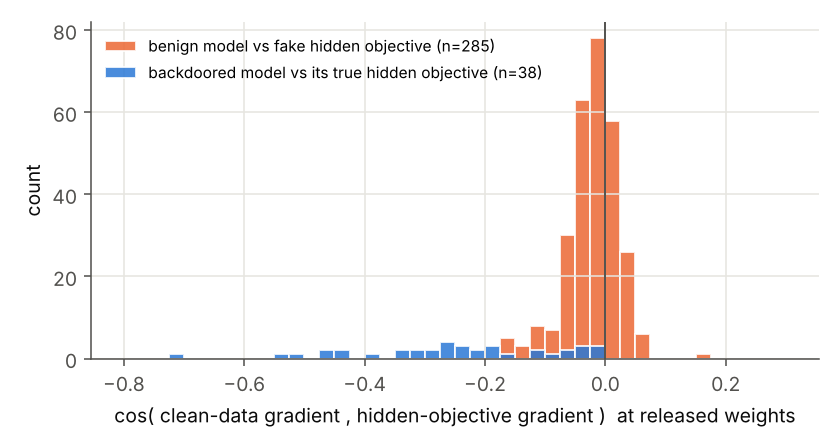
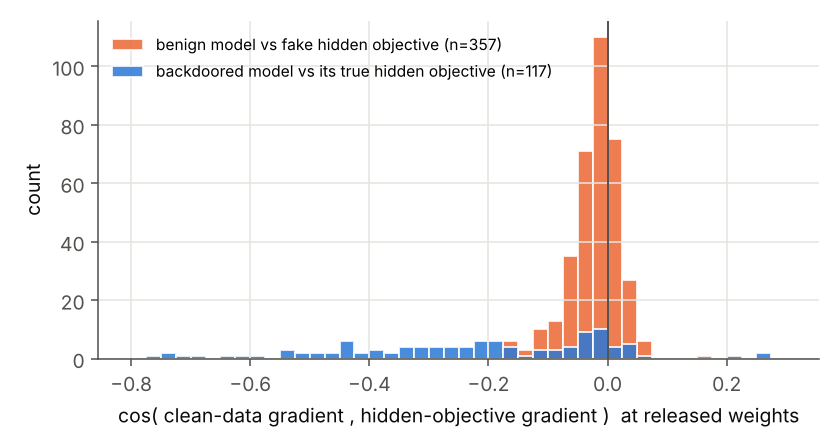
Report: duality replications, zoo3, zoo6; pooled survival figure
Claude-Session: https://claude.ai/code/session_017REhGJF2ojJU6FrggAw94v

diff --git a/lab/analysis/figures.py b/lab/analysis/figures.py
@@ -139,9 +139,39 @@ def fig_zoo2(outdir, z="runs/zoo2"):
     fig.savefig(os.path.join(outdir, "survival_zoo2.png"))
 
 
+def fig_survival_pooled(outdir, zoos=("zoo2", "zoo4", "zoo5", "zoo6")):
+    xs, cens = [], []
+    for z in zoos:
+        tug = load_scores(os.path.join("runs", z), "tug_frozen")
+        for d in map(json.loads, open(os.path.join("runs", z, "persistence_lr1e-4.jsonl"))):
+            xs.append(tug[d["id"]]["tok_min_cos"])
+            cens.append(d["censored"])
+    xs, cens = np.array(xs), np.array(cens)
+    bins = [(0, 0.1), (0.1, 0.15), (0.15, 0.2), (0.2, 0.3), (0.3, 1)]
+    labs = ["< 0.10", "0.10–0.15", "0.15–0.20", "0.20–0.30", "≥ 0.30"]
+    rates, ns, ks = [], [], []
+    for a, b in bins:
+        sel = (xs >= a) & (xs < b)
+        ns.append(int(sel.sum()))
+        ks.append(int(cens[sel].sum()))
+        rates.append(cens[sel].mean() if sel.any() else 0)
+    fig, ax = plt.subplots(figsize=(5.0, 3.1))
+    ax.bar(range(len(bins)), rates, color=BLUE, width=0.62, edgecolor="white", linewidth=2)
+    for i, (r_, k_, n_) in enumerate(zip(rates, ks, ns)):
+        ax.text(i, r_ + 0.02, f"{k_}/{n_}", ha="center", fontsize=8.5, color=INK)
+    ax.set_xticks(range(len(bins)), labs)
+    ax.set_ylim(0, 0.75)
+    ax.set_xlabel("trigger-free tug score at release (auditor-computable)")
+    ax.set_ylabel("survived clean fine-tuning")
+    ax.set_title(f"{len(xs)} backdoors, 4 sealed zoos", fontsize=10, color=INK)
+    fig.tight_layout()
+    fig.savefig(os.path.join(outdir, "survival_pooled.png"))
+
+
 if __name__ == "__main__":
     outdir = sys.argv[1]
     os.makedirs(outdir, exist_ok=True)
     fig_law(["runs/zoo1", "runs/zoo2", "runs/zoo3", "runs/zoo4"], os.path.join(outdir, "law.png"))
     fig_duality(["runs/zoo2/persistence_lr1e-4.jsonl"], os.path.join(outdir, "duality.png"))
     fig_zoo2(outdir)
+    fig_survival_pooled(outdir)

diff --git a/lab/REPORT.md b/lab/REPORT.md
@@ -19,12 +19,15 @@ labelled as such. Pending sections are marked PENDING.
    - sealed zoo4 (bias-free, LLM-style output heads): AUROC **0.785** [0.679, 0.880]; recovery 12/30 (p = 8.5e-19);
    - sealed zoo5 (poisoned vs benign *fine-tunes* of clean models; no base model used): AUROC **0.971**
      [0.934, 0.996]; recovery **43/48 = 90%** (p = 4.5e-90).
-3. **Detectability–persistence duality.** A first-order chain-rule argument gives dL_hidden/dt = −g_hᵀP g_c under
-   clean fine-tuning. Sealed zoo2 (77 effective backdoors): the release-time rate predicts ASR half-life under
-   clean fine-tuning with Spearman **−0.78** (p = 3.7e-17; pre-registered criterion ρ ≤ −0.6 met); the
-   trigger-free score alone gives −0.70 (p = 1.4e-12). It holds within trigger kinds (ρ = −0.49, p = 6.7e-6) and
-   within behaviours (−0.74 to −0.94). Strong-tug backdoors (cos < −0.3) survived clean fine-tuning **0/27**
-   times; weak-tug ones (−0.1…0) survived 44%.
+3. **Detectability–persistence duality (the main result).** A first-order chain-rule argument gives
+   dL_hidden/dt = −g_hᵀP g_c under clean fine-tuning. Pre-registered on sealed zoo2 (77 effective backdoors):
+   the release-time rate predicts ASR half-life with Spearman **−0.78** (p = 3.7e-17; criterion ρ ≤ −0.6 met).
+   It **replicates on every other sealed zoo** with the identical analysis (zoo4 −0.80, zoo5 −0.65, zoo6 −0.75;
+   pooled n = 211: **−0.81, p = 2.6e-50**; within zoo × trigger kind −0.34, p = 5e-7). Backdoors with a strong
+   tug (cos < −0.3) survived clean fine-tuning **0/85** times; near-zero or positive tug survived about half.
+   With auditor-computable information only, the trigger-free score forecasts survival with AUROC **0.84**
+   [0.79, 0.89] (Spearman −0.72, p = 2e-35): **every backdoor scoring > 0.2 was removed (0/81); all 43
+   survivors were among those the audit could not flag.**
 4. **The limit: leakage.** Exactly, g_clean = E_x Σ_{v≠y} p_v(x) ∇(logit_v − logit_y)(x): the clean gradient is a
    leak-weighted sum of deviation directions (to first order the same holds for Fisher/Gauss-Newton curvature).
    Empirically the white-box tug is **statistically indistinguishable from the best black-box leakage
@@ -72,7 +75,7 @@ Sealed H1: PENDING (`analysis/tug_law.py` on zoo2/zoo4).
 | zoo2 from scratch | 60 / 80 | 0.794 [0.716, 0.863] | 0.40 | 30/60 |
 | zoo4 bias-free heads | 30 / 48 | 0.785 [0.679, 0.880] | 0.43 | 12/30 |
 | zoo5 fine-tunes | 48 / 64 | 0.971 [0.934, 0.996] | — | 43/48 |
-| zoo3 held-out | PENDING | | | |
+| zoo3 held-out conditions | 36 / 41 | 0.682 [0.560, 0.797] | 0.08 | 1/36 (rules undefined for held-out behaviours) |
 
 By trigger (zoo2): sorted 0.97, skip-gram 0.86, n-gram 0.85, positional 0.72, subset 0.58 (subset inputs lie
 off the clean manifold → little interference). By strength (zoo2): ASR 0.5–0.9 0.94, ≥ 0.9 0.70, ≥ 0.99 0.62.
@@ -80,10 +83,17 @@ Specificity: benign undisclosed task vs clean 0.56 (zoo2), 0.48 (zoo4), 0.55 (zo
 The pre-registered learning-rate effect (H7) did not replicate (zoo2 Δ = +0.046, p ≈ 0.29).
 
 ### 3.3 Detectability–persistence duality (H5)
-Sealed zoo2, 77 effective backdoors (scratch + fine-tuned), clean fine-tuning at lr 1e-4 for 300 steps:
-Spearman(rate, half-life) −0.783 (p = 3.7e-17); −cos −0.780; trigger-free score −0.700; black-box leak −0.715.
-Survival by tug: cos < −0.3: 0/27; −0.3…−0.1: 1/19; −0.1…0: 8/18; > 0: 5/13. Co-directional tug raises
-survival (Fisher p = 0.02) but does not guarantee it.
+Clean fine-tuning at lr 1e-4 for 300 steps, ASR every 10 steps (`analysis/persistence.py`):
+| zoo | n | ρ(rate, half-life) | ρ(trigger-free score, half-life) |
+|---|---|---|---|
+| zoo2 (pre-registered) | 77 | −0.783 (p = 3.7e-17) | −0.700 |
+| zoo4 | 30 | −0.800 (p = 1.2e-7) | −0.687 |
+| zoo5 | 48 | −0.649 (p = 6.2e-7) | −0.784 |
+| zoo6 | 56 | −0.746 (p = 4.2e-11) | −0.451 |
+| pooled | 211 | −0.810 (p = 2.6e-50) | −0.723 (p = 2.2e-35) |
+Survival by true tug (pooled): cos < −0.3: 0/85; −0.3…−0.1: 2/48; −0.1…0: 22/45; > 0: 19/33. Co-directional
+tug raises survival but does not guarantee it; an attacker who forces co-directionality gains no persistence.
+Black-box leakage predicts half-life about as well as the tug on zoo2 (−0.715 vs −0.700).
 
 ### 3.4 White-box vs black-box
 | zoo | tug | best black-box (statistic) | tug − best [95% CI] | p |
@@ -102,8 +112,17 @@ destroys the backdoor (ASR ≤ 0.33). Forcing co-directional gradients flips the
 6/8, 0/8 persist). Orthogonalisation reduces the tug at a cost in ASR (flagged 7/8). No attacked model both
 evaded the threshold with ASR ≥ 0.5 and survived subsequent clean fine-tuning (0/40). Single attack strength.
 
-### 3.6 Causal test of the leakage principle (zoo6, H10): PENDING
-### 3.7 Held-out conditions (zoo3): PENDING
+### 3.6 Causal test of the leakage principle (zoo6, H10): not supported
+Paired design (40 specs, with vs without 10% near-miss negatives). Near-miss training halved backdoor
+effectiveness (median ASR 0.95 → 0.48), leaving 20 pairs effective in both arms. Leakage was lower (one-sided
+p = 0.045) and half-life higher (289 vs 122 steps, p = 0.07) with near-miss, as predicted, but neither survives
+Holm correction; the tug score was not lower (p = 0.38). Inconclusive; needs a better-powered design.
+
+### 3.7 Held-out conditions (zoo3)
+AUROC 0.682 [0.560, 0.797] (p = 3.3e-3). Held-out attack families 0.685 (descending 0.80, count 0.66,
+length+boundary 0.58). By recipe: constant LR 0.97, bias-free 0.88/0.88, d128 0.85, d96 L3 0.67, L4 0.54,
+SGD+momentum 0.47 (n = 3/5). Generalisation is partial: weaker for unseen trigger families, deeper models and a
+different optimiser family.
 ### 3.8 Scale (30k → 600k parameters): PENDING
 
 ## 4. Negative results (all reported)
